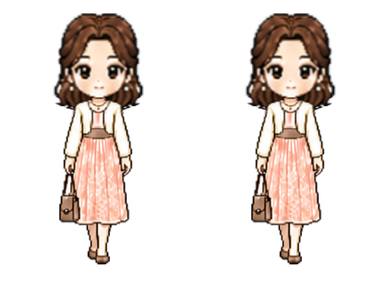
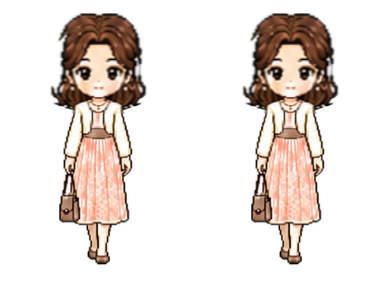
1번 하객 정면 얼굴 광학 비율 보정 (#40)
* 1번 하객 정면 얼굴 광학 비율 보정

* 1번 하객 시각 기준선 갱신

---------

Changed region(s): [[0.625, 0.0312, 0.9062, 0.4062], [0.125, 0.0312, 0.4062, 0.4062]]

diff --git a/client/src/character/assetRevisions.ts b/client/src/character/assetRevisions.ts
@@ -1,16 +1,17 @@
-export const defaultGuestAssetRevision = "couple-depth-gameplay-v7";
+export const defaultGuestAssetRevision = "guest-01-optical-face-v8";
+const previousGuestAssetRevision = "couple-depth-gameplay-v7";
 
 export const guestAssetRevisions: Readonly<Partial<Record<string, string>>> = {
   "feminine-long-wave-dress": defaultGuestAssetRevision,
-  "feminine-formal-hanbok": defaultGuestAssetRevision,
-  "masculine-navy-suit": defaultGuestAssetRevision,
-  "masculine-charcoal-blazer": defaultGuestAssetRevision,
-  "feminine-sage-bolero-dress": defaultGuestAssetRevision,
-  "feminine-champagne-navy-skirt": defaultGuestAssetRevision,
-  "feminine-lavender-jacket-dress": defaultGuestAssetRevision,
-  "feminine-teal-modern-hanbok": defaultGuestAssetRevision,
-  "masculine-beige-summer-suit": defaultGuestAssetRevision,
-  "masculine-charcoal-burgundy-tie": defaultGuestAssetRevision,
-  "masculine-green-blazer-cream-pants": defaultGuestAssetRevision,
-  "masculine-blue-modern-hanbok": defaultGuestAssetRevision,
+  "feminine-formal-hanbok": previousGuestAssetRevision,
+  "masculine-navy-suit": previousGuestAssetRevision,
+  "masculine-charcoal-blazer": previousGuestAssetRevision,
+  "feminine-sage-bolero-dress": previousGuestAssetRevision,
+  "feminine-champagne-navy-skirt": previousGuestAssetRevision,
+  "feminine-lavender-jacket-dress": previousGuestAssetRevision,
+  "feminine-teal-modern-hanbok": previousGuestAssetRevision,
+  "masculine-beige-summer-suit": previousGuestAssetRevision,
+  "masculine-charcoal-burgundy-tie": previousGuestAssetRevision,
+  "masculine-green-blazer-cream-pants": previousGuestAssetRevision,
+  "masculine-blue-modern-hanbok": previousGuestAssetRevision,
 };

diff --git a/character-assets/reference/guest-depth-walk-sources/v7/README.md b/character-assets/reference/guest-depth-walk-sources/v7/README.md
@@ -1,0 +1,12 @@
+# Guest optical face balance v7
+
+신랑·신부와 어울리는 절제된 2D 입체 명암과 정확한 3등신 기준은 v6에서 유지한다.
+
+- `guest-01` 정면 3컷의 얼굴 윤곽, 볼 면적, 눈 간격을 측면의 광학 크기에 맞게 축소했다.
+- 좌우·후면, 헤어 실루엣, 의상, 보행 포즈, 3×4 배열은 변경하지 않는다.
+- 정면 얼굴은 폭뿐 아니라 실제 보이는 피부 면적까지 측면 평균과 비교한다.
+- 나머지 11종은 검수된 v6 원화를 그대로 승계한다.
+
+Imagegen 편집 프롬프트:
+
+> Change only the three front-facing faces: reduce each face oval, cheeks, and eye spacing by about 6% so the front face looks the same optical size as the side faces. Keep the exact character, hair silhouette, 2D depth, outfit, body, three-head-tall proportions, all poses, spacing, white background, and full 3x4 sheet unchanged.
